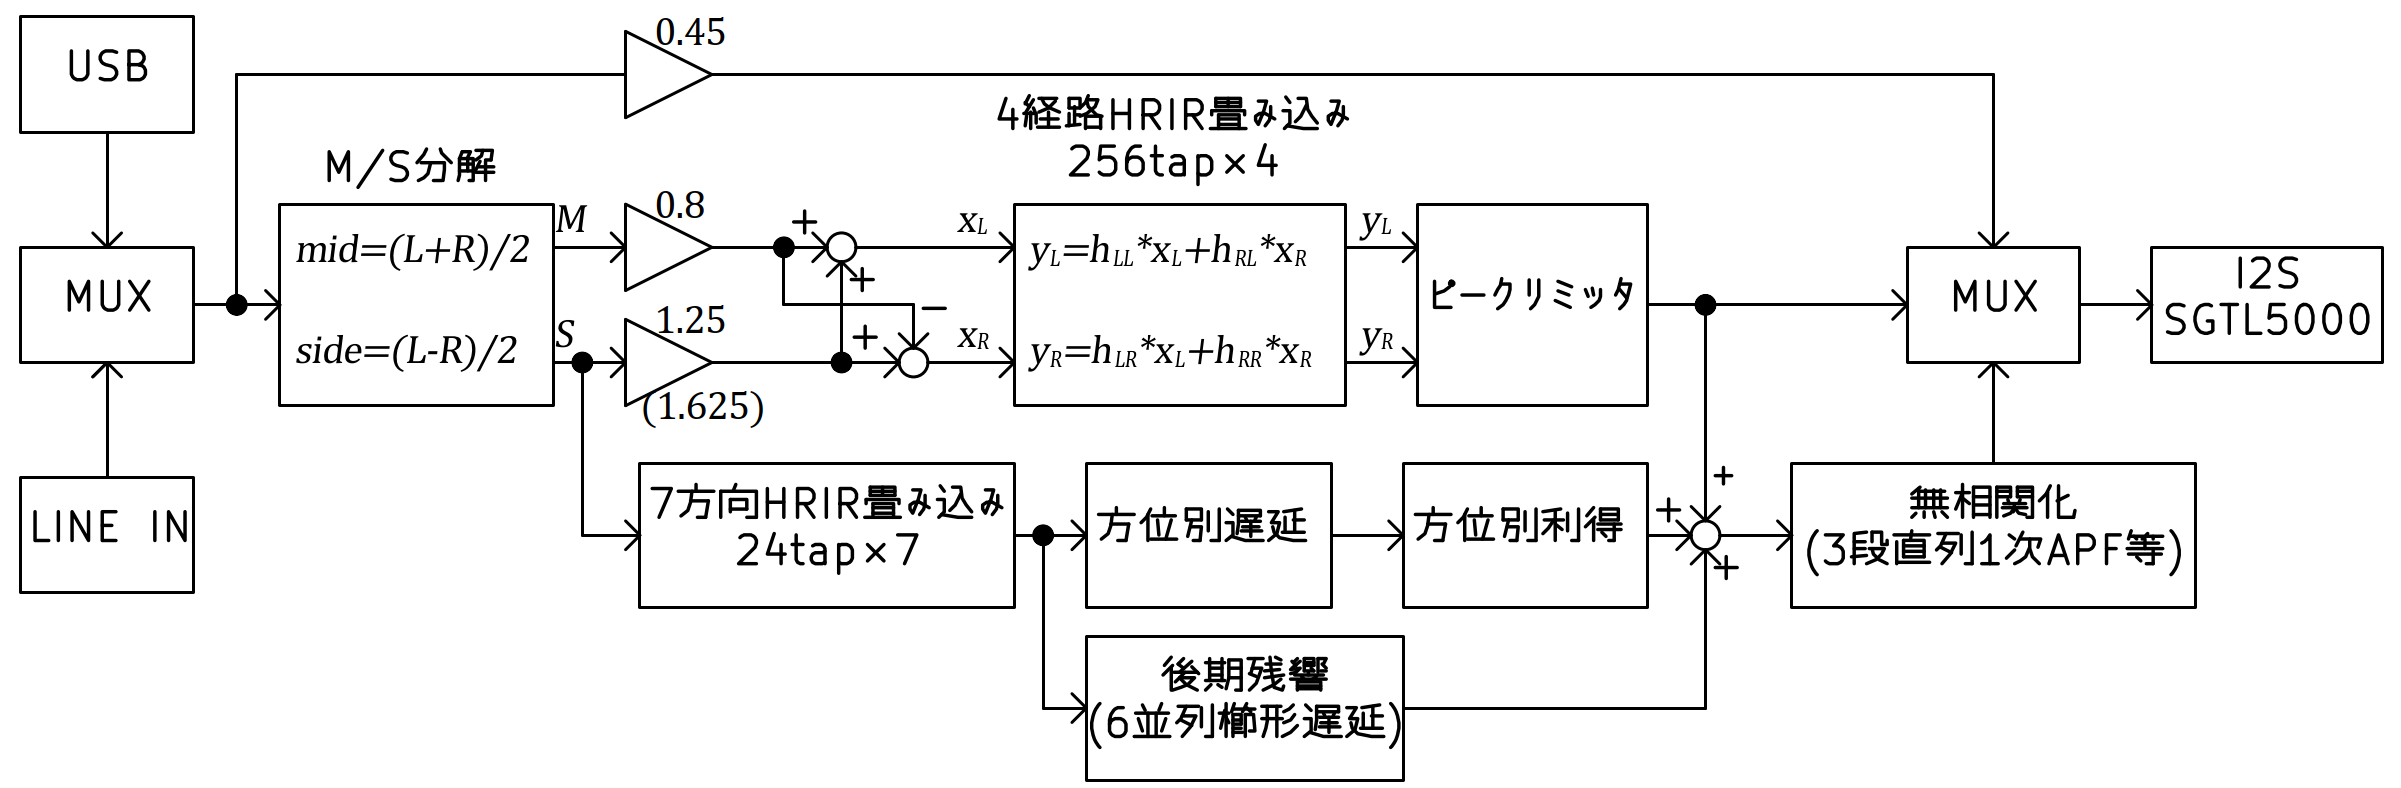
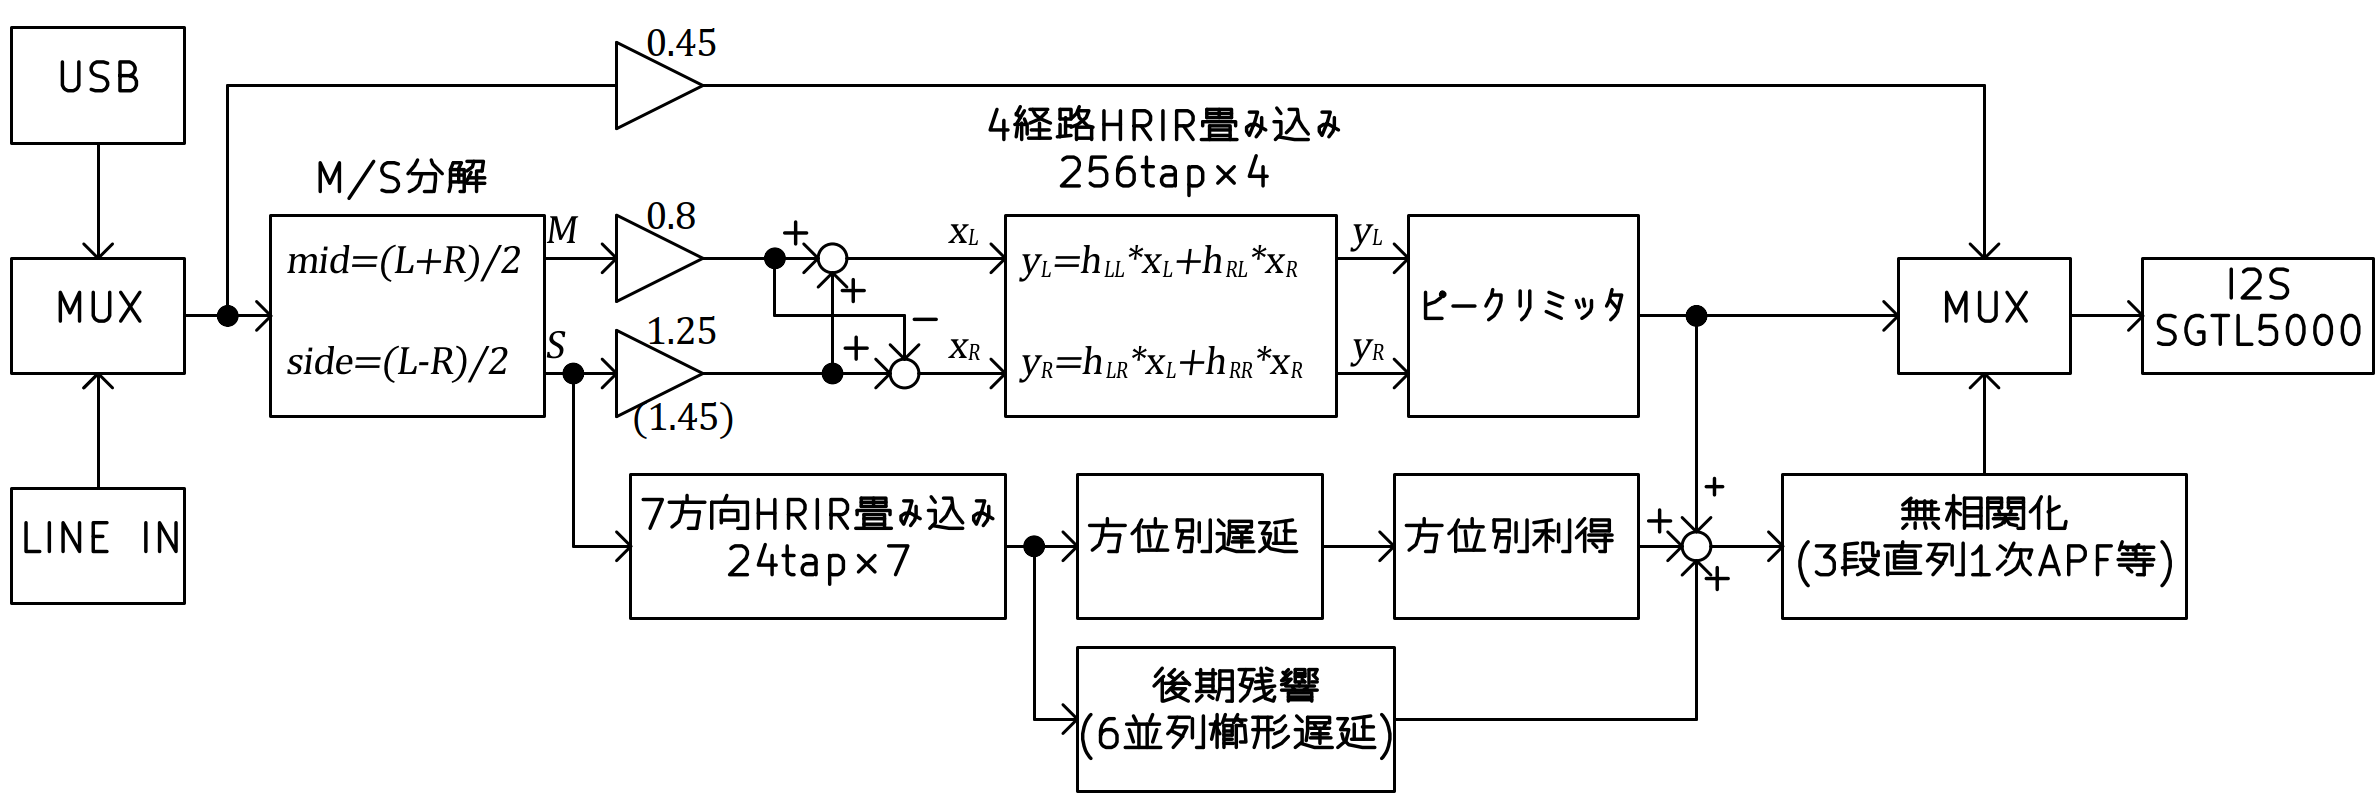
a

diff --git a/project-15750/index.html b/project-15750/index.html
@@ -244,7 +244,7 @@ height="0" width="0" style="display:none;visibility:hidden"></iframe></noscript>
                     <p><strong>4. ボリュームと出力:</strong> ホスト音量とボタン音量を合成した Q15 ゲインを掛け、24bit 左詰めの 32bit ワードへ戻して I2S に流します。</p>
 
                     <h3>頭外定位＋音場拡張モード</h3>
-                    <p>頭外定位モードの処理を実行 (ただし側方利得は 1.25 → 1.625 に増加) した上で、以下を加えます。</p>
+                    <p>頭外定位モードの処理を実行 (ただし側方利得は 1.25 → 1.45 に増加) した上で、以下を加えます。</p>
 
                     <p><strong>1. 側方信号の履歴:</strong> 側方成分 \(S\) を Q15 化し、反射用の履歴バッファへ書き込みます。</p>
 
@@ -266,9 +266,9 @@ height="0" width="0" style="display:none;visibility:hidden"></iframe></noscript>
                         </table>
                     </div>
 
-                    <p><strong>3. 後期残響 (6 並列櫛形遅延):</strong> 反射駆動差分と初期反射差分から励振信号 \(e\) を作り、長さの異なる 6 本の遅延線 (1499 / 1777 / 1999 / 2357 / 2753 / 3251 サンプル) に並列に供給します。各ラインは 1 次低域フィルタで高域を減衰させてからフィードバックします。</p>
+                    <p><strong>3. 後期残響 (6 並列櫛形遅延):</strong> 反射駆動信号と初期反射の Side 差分を主体に、Mid 和成分も少量 (0.18 倍) 混ぜて励振信号 \(e\) を作り、長さの異なる 6 本の遅延線 (1499 / 1777 / 1999 / 2357 / 2753 / 3251 サンプル) に並列に供給します。Side 主体とすることで定位の芯を残しつつ、Mid を少量加えることでセンター定位の音にも自然な残響が乗ります。各ラインは 1 次低域フィルタで高域を減衰させてからフィードバックします。</p>
 
-                    <p>$$e = 0.30 \cdot \frac{r_L^{drive} - r_R^{drive}}{2} + \frac{E_L - E_R}{2}$$</p>
+                    <p>$$e = \underbrace{0.30 \cdot \frac{r_L^{drive} - r_R^{drive}}{2} + \frac{E_L - E_R}{2}}_{\text{Side 励振}} + 0.18 \left( \underbrace{0.30 \cdot \frac{r_L^{drive} + r_R^{drive}}{2} + \frac{E_L + E_R}{2}}_{\text{Mid 励振}} \right)$$</p>
                     <p>$$\text{lp}_i \leftarrow \text{lp}_i + 0.58\,(d_i - \text{lp}_i),\quad \text{buf}_i[\text{pos}_i] \leftarrow e + 0.66\,\text{lp}_i$$</p>
 
                     <p>6 本の遅延出力から、平均値 \(M_r\) と左右で重み符号を変えた \(D_L, D_R\) を作り、\(M_r + 0.38(D_L - M_r)\) のように混合して 0.58 倍したものを残響成分 \(L_{late}, R_{late}\) とします。</p>